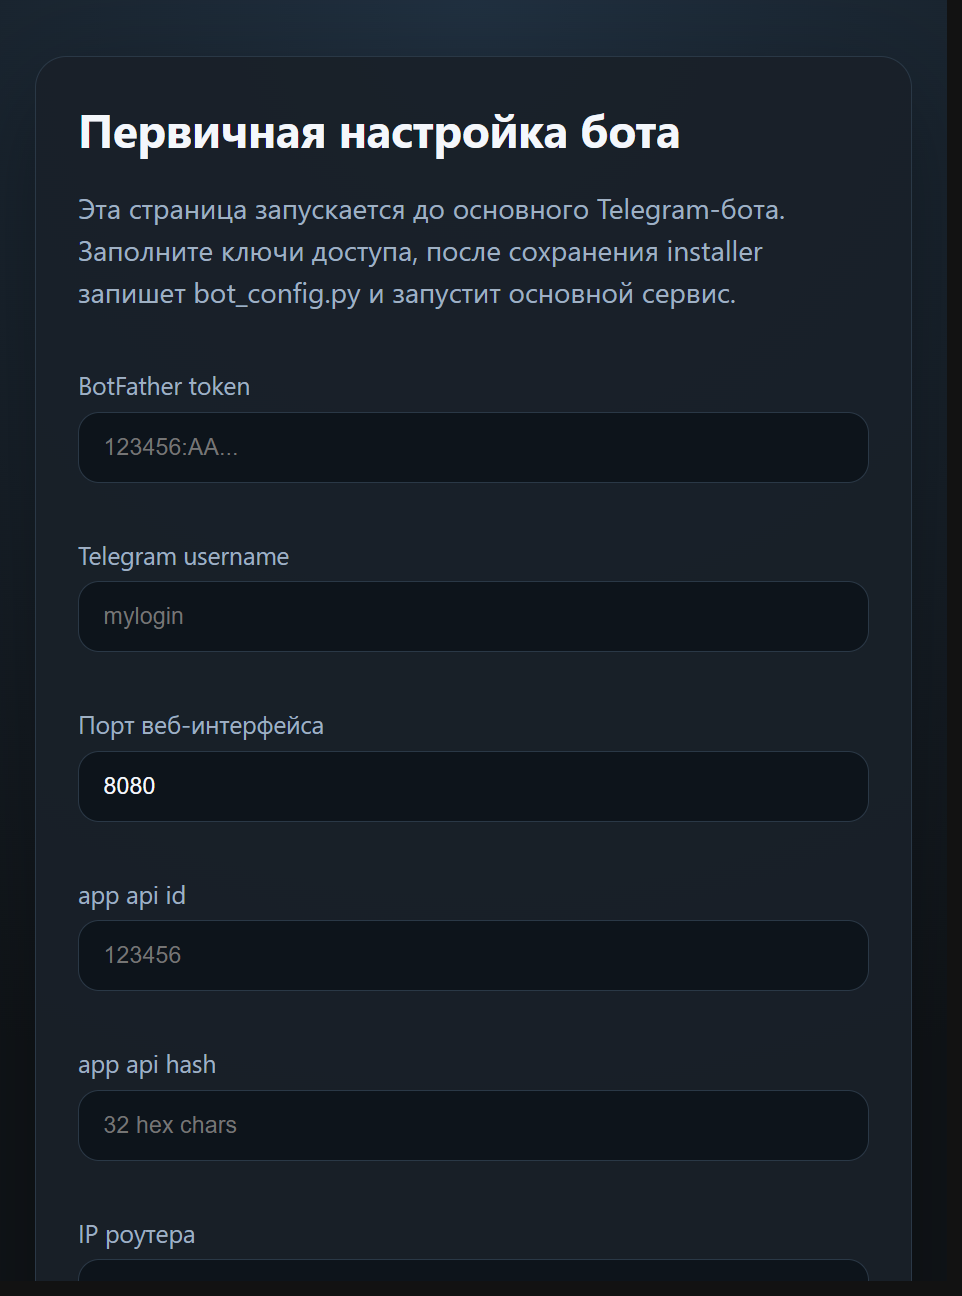
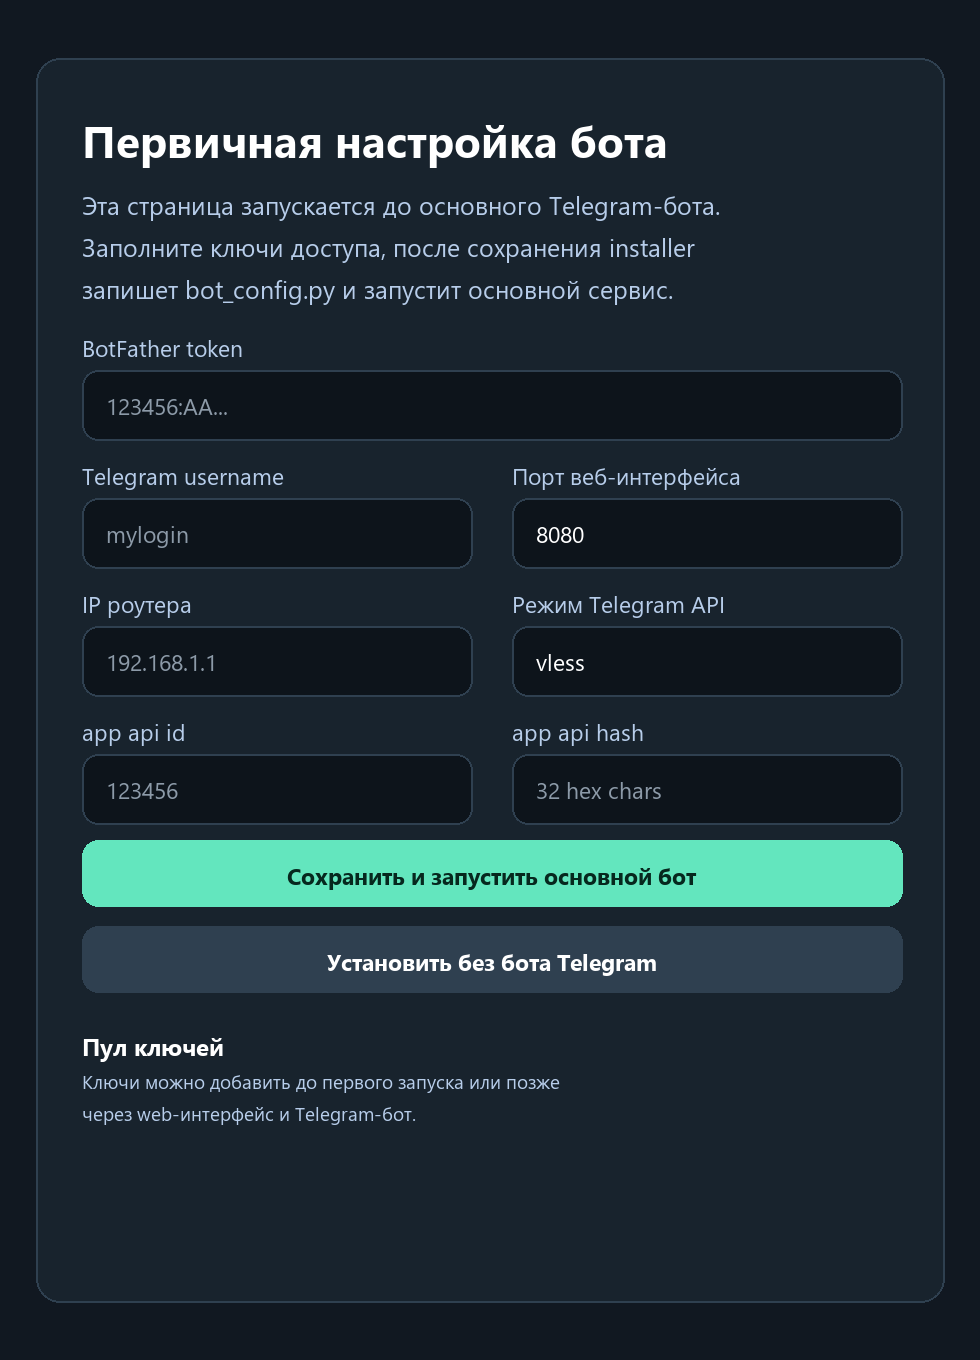
Update README screenshots and service docs

diff --git a/README.md b/README.md
@@ -24,6 +24,7 @@
 - **API `/api/status`** — JSON-эндпоинт для получения статуса всех протоколов и пулов ключей. Используется веб-интерфейсом и подходит для внешнего мониторинга.
 - **Статические иконки** — Telegram и YouTube иконки отображаются в веб-интерфейсе и сообщениях бота для наглядной индикации работоспособности каждого ключа.
 - **Переустановка из ветки independent** — отдельная кнопка в Telegram-боте и на странице `192.168.1.1:8080` обновляет установку из ветки `feature/independent-rework` без сброса сохранённых ключей и списков.
+- **Переход в web-only** — отдельная кнопка в веб-интерфейсе переустанавливает версию из ветки `feature/web-only` без Telegram-бота, сохраняя локальные ключи и списки.
 - **Автоматический failover** — при обнаружении нерабочего активного ключа бот может автоматически переключиться на следующий ключ из пула.
 
 ## Установка (~30-60 минут с нуля)
@@ -71,10 +72,10 @@ sh -c 'export PATH=/opt/bin:/opt/sbin:$PATH; OPKG="$(command -v opkg || echo /op
 - сохранение ключей **Vless 1**, **Vless 2**, **Vmess**, **Trojan** и **Shadowsocks**;
 - **пул ключей** — добавление нескольких ключей для каждого протокола, применение ключа кликом, очистка пула и автоматическая проверка работоспособности (значки Telegram и YouTube);
 - **subscription-ссылки** — загрузка ключей из подписки прямо через веб-интерфейс;
-- **сервисы по запросу** — добавление готовых доменных списков популярных сервисов через Telegram-команду `/getlist` и меню списков;
+- фоновые команды обновления и переустановки с прогрессом выполнения на странице;
 - переключение активного режима для самого Telegram-бота;
 - редактирование списков обхода по протоколам;
-- служебные команды: обновление из форка без сброса, переустановка из ветки independent, перезапуск сервисов, DNS override, удаление компонентов и перезагрузка.
+- служебные команды: обновление из форка без сброса, переустановка из ветки independent, переход в версию без Telegram-бота, перезапуск сервисов, DNS override, удаление компонентов и перезагрузка.
 
 Типовой сценарий работы:
 1. Откройте в браузере `http://192.168.1.1:8080/` из локальной сети роутера.
@@ -82,7 +83,7 @@ sh -c 'export PATH=/opt/bin:/opt/sbin:$PATH; OPKG="$(command -v opkg || echo /op
 3. При необходимости отредактируйте список доменов в блоке **Списки обхода по протоколам и VPN**.
 4. Переключите режим кнопкой **Режим** в верхней части страницы.
 5. Проверьте блок **Связь с Telegram API**: там видно, проходит ли трафик и каким маршрутом сейчас работает бот.
-6. Используйте **Пул ключей** для хранения нескольких ключей: выбранный ключ можно применить кликом, а ненужный пул очистить кнопкой **Очистить пул**.
+6. Используйте **Пул ключей** для хранения нескольких ключей: выбранный ключ можно применить кликом, отдельный ключ удалить кнопкой **✕**, новые ключи загрузить вручную или через subscription, а весь пул очистить кнопкой **Очистить пул**.
 7. Для популярных сервисов используйте команду бота `/getlist youtube`, `/getlist instagram`, `/getlist telegram` или кнопку **Сервисы по запросу** в меню списков.
 
 ## Пул ключей в Telegram-боте
@@ -116,7 +117,7 @@ sh -c 'export PATH=/opt/bin:/opt/sbin:$PATH; OPKG="$(command -v opkg || echo /op
 	<img src="docs/screenshots/web-ui-overview.png" alt="Общий вид веб-интерфейса" width="420">
 </a>
 
-Нижняя часть страницы со списками обхода и сервисными командами:
+Команды установки и обслуживания, включая переустановку в web-only, и списки обхода:
 
 <a href="docs/screenshots/web-ui-lists.png">
 	<img src="docs/screenshots/web-ui-lists.png" alt="Списки обхода и команды обслуживания" width="420">
